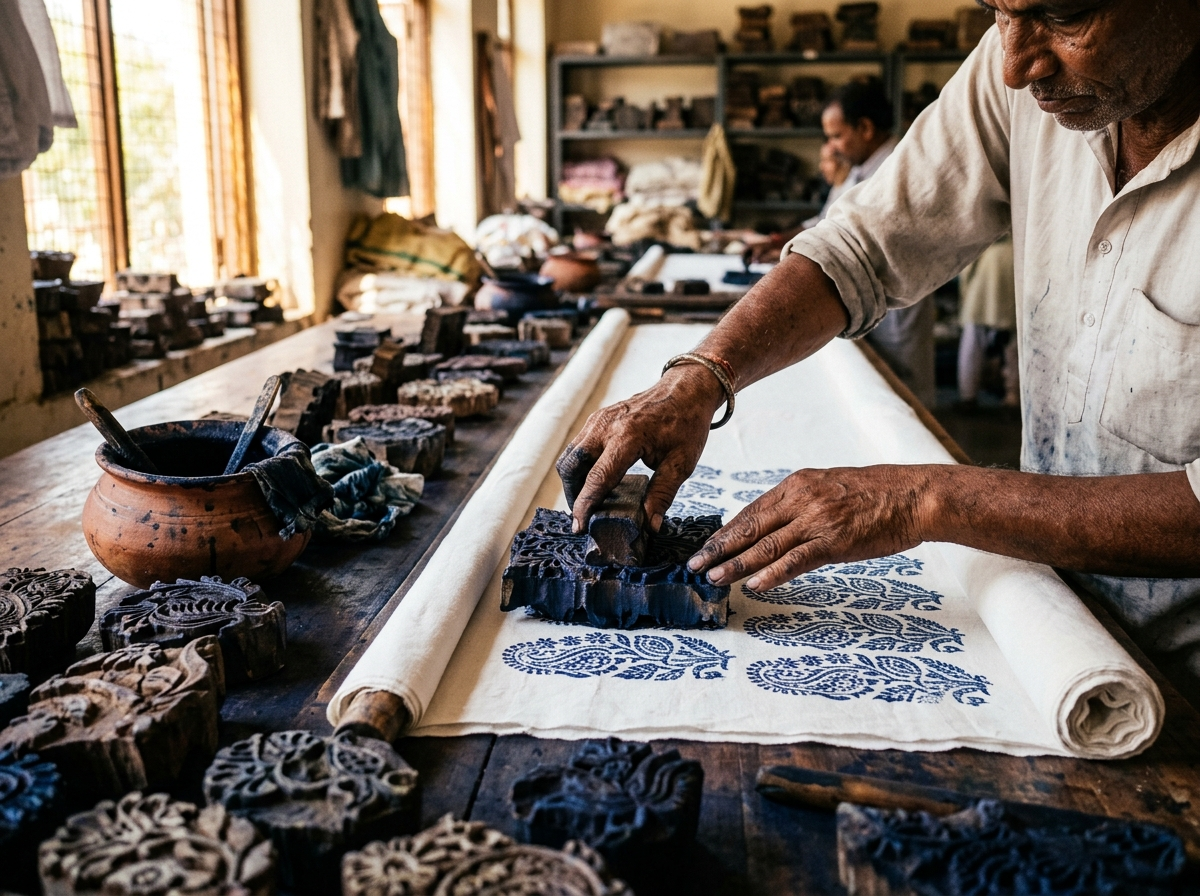
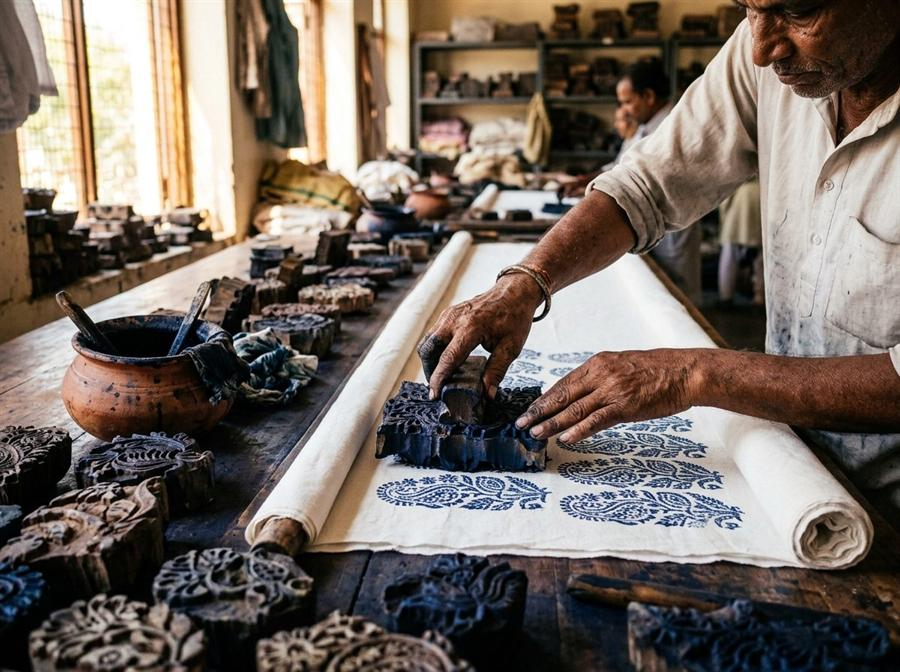
perf(speed): 81% image compression, lazy loading, clip scrolling, and bulletproof scrollToSection

Changed region(s): [[0.6533, 0.6875, 0.8089, 0.7812], [0.4356, 0.7188, 0.5911, 0.75]]

diff --git a/index.html b/index.html
@@ -1,5 +1,5 @@
 <!DOCTYPE html>
-<html lang="en" class="scroll-smooth overflow-x-hidden w-full max-w-full">
+<html lang="en" class="scroll-smooth w-full">
 <head>
   <meta charset="UTF-8" />
   <meta name="viewport" content="width=device-width, initial-scale=1.0, maximum-scale=1.0, user-scalable=no, viewport-fit=cover" />
@@ -15,16 +15,18 @@
   <meta property="og:description" content="Export quality Mul-cotton bedsheets, Dohars, 4x6 Carpets, and handcrafted home textiles from Jaipur. 7-Day Pan-India Delivery." />
   <meta property="og:image" content="assets/images/hero-jaipur.jpg" />
 
-  <!-- Google Fonts: Cinzel (Regal Serif) + Plus Jakarta Sans (Modern Body) -->
+  <!-- Preconnect & DNS-Prefetch for Speed -->
+  <link rel="dns-prefetch" href="https://fonts.googleapis.com" />
+  <link rel="dns-prefetch" href="https://fonts.gstatic.com" />
   <link rel="preconnect" href="https://fonts.googleapis.com" />
   <link rel="preconnect" href="https://fonts.gstatic.com" crossorigin />
-  <link href="https://fonts.googleapis.com/css2?family=Cinzel:wght@500;600;700;800&family=Plus+Jakarta+Sans:wght@300;400;500;600;700&family=Playfair+Display:ital,wght@0,600;1,400&display=swap" rel="stylesheet" />
+  <link href="https://fonts.googleapis.com/css2?family=Cinzel:wght@600;700;800&family=Plus+Jakarta+Sans:wght@400;500;600;700&family=Playfair+Display:ital,wght@0,600;1,400&display=swap" rel="stylesheet" />
 
   <!-- Tailwind CSS CDN -->
   <script src="https://cdn.tailwindcss.com"></script>
   
-  <!-- Lucide Icons CDN -->
-  <script src="https://unpkg.com/lucide@latest"></script>
+  <!-- Lucide Icons CDN (Direct Minified Bundle) -->
+  <script src="https://unpkg.com/lucide@0.344.0/dist/umd/lucide.min.js"></script>
 
   <script>
     tailwind.config = {
@@ -59,11 +61,17 @@
   </script>
 
   <style>
-    /* Strict Mobile Responsiveness & Overflow Prevention */
-    html, body {
+    /* Strict Mobile Responsiveness & Fluid Document Scrolling */
+    html {
+      width: 100%;
+      scroll-behavior: smooth;
+      -webkit-text-size-adjust: 100%;
+    }
+
+    body {
       width: 100%;
       max-width: 100%;
-      overflow-x: hidden !important;
+      overflow-x: clip; /* clip prevents horizontal overflow without breaking window.scrollTo or anchor hash navigation */
       position: relative;
       margin: 0;
       padding: 0;
@@ -71,10 +79,17 @@
       color: #1E1B18;
       font-family: 'Plus Jakarta Sans', sans-serif;
       -webkit-tap-highlight-color: transparent;
+      -webkit-font-smoothing: antialiased;
+      -moz-osx-font-smoothing: grayscale;
     }
     
     * {
       box-sizing: border-box;
+    }
+
+    /* Section scroll offset for sticky header */
+    #catalogue, #instagram-reels, #calculator, #gifting, #studio {
+      scroll-margin-top: 76px;
     }
 
     .font-cinzel { font-family: 'Cinzel', serif; }
@@ -201,7 +216,7 @@
     }
   </style>
 </head>
-<body class="antialiased selection:bg-amber-200 selection:text-amber-950 pb-20 md:pb-0 overflow-x-hidden">
+<body class="antialiased selection:bg-amber-200 selection:text-amber-950 pb-20 md:pb-0">
 
   <!-- Scroll Progress Indicator -->
   <div id="scrollProgressBar"></div>
@@ -258,13 +273,13 @@
             <i data-lucide="chevron-down" id="showcaseChevron" class="w-3.5 h-3.5 text-heritage-gold transition-transform duration-300"></i>
           </button>
           
-          <a href="#instagram-reels" class="hover:text-heritage-gold transition py-2 flex items-center gap-1.5 text-amber-900 font-bold">
+          <a href="#instagram-reels" onclick="return scrollToSection('instagram-reels', event)" class="hover:text-heritage-gold transition py-2 flex items-center gap-1.5 text-amber-900 font-bold">
             <span class="w-1.5 h-1.5 rounded-full bg-pink-500 animate-pulse"></span>
             <span>Live Reels</span>
           </a>
           
-          <a href="#calculator" class="hover:text-heritage-gold transition py-2">Room Sizer</a>
-          <a href="#studio" class="hover:text-heritage-gold transition py-2">Studio</a>
+          <a href="#calculator" onclick="return scrollToSection('calculator', event)" class="hover:text-heritage-gold transition py-2">Room Sizer</a>
+          <a href="#studio" onclick="return scrollToSection('studio', event)" class="hover:text-heritage-gold transition py-2">Studio</a>
         </div>
 
         <!-- Right Action: Mobile Showcase & Bag (Fitted & Fully Visible) -->
@@ -491,7 +506,7 @@
           <i data-lucide="chevron-down" class="w-4 h-4"></i>
         </button>
 
-        <a href="#catalogue" class="w-full sm:w-auto px-5 py-3 sm:px-7 sm:py-4 rounded-full luxury-glass text-white hover:text-amber-200 font-semibold text-xs sm:text-sm tracking-[0.08em] sm:tracking-[0.1em] uppercase transition flex items-center justify-center gap-2 border border-amber-400/35 shadow-xl hover:bg-white/10">
+        <a href="#catalogue" onclick="return scrollToSection('catalogue', event)" class="w-full sm:w-auto px-5 py-3.5 sm:px-7 sm:py-4 rounded-full luxury-glass text-white hover:text-amber-200 font-semibold text-xs sm:text-sm tracking-[0.08em] sm:tracking-[0.1em] uppercase transition flex items-center justify-center gap-2 border border-amber-400/35 shadow-xl hover:bg-white/10 active:scale-95 cursor-pointer">
           <span>Browse All Heirlooms</span>
           <i data-lucide="arrow-down" class="w-3.5 h-3.5 text-amber-300"></i>
         </a>
@@ -523,7 +538,7 @@
       </div>
 
       <!-- Delicate Floating Scroll Indicator -->
-      <div class="mt-6 sm:mt-10 flex flex-col items-center gap-1.5 text-amber-300/80 animate-bounce cursor-pointer group" onclick="document.getElementById('catalogue').scrollIntoView({behavior: 'smooth'})">
+      <div class="mt-6 sm:mt-10 flex flex-col items-center gap-1.5 text-amber-300/80 animate-bounce cursor-pointer group" onclick="return scrollToSection('catalogue', event)">
         <span class="text-[8px] sm:text-[10px] uppercase tracking-[0.25em] font-medium group-hover:text-amber-200 transition">Scroll to Discover The Crafts</span>
         <i data-lucide="chevron-down" class="w-3.5 h-3.5 text-heritage-gold"></i>
       </div>
@@ -600,7 +615,7 @@
       <!-- Reel 1: 4x6 Carpet Video -->
       <div onclick="openReelModal(0)" class="cursor-pointer bg-white rounded-2xl overflow-hidden shadow-sm hover:shadow-xl transition-all duration-300 border border-heritage-border group flex flex-col justify-between card-3d">
         <div class="relative aspect-[9/14] bg-heritage-obsidian overflow-hidden">
-          <img src="assets/images/carpet-indigo-4x6.jpg" alt="Indigo Carpet Reel" class="w-full h-full object-cover animate-reel-zoom group-hover:brightness-95 transition" />
+          <img src="assets/images/carpet-indigo-4x6.jpg" alt="Indigo Carpet Reel" loading="lazy" decoding="async" class="w-full h-full object-cover animate-reel-zoom group-hover:brightness-95 transition" />
           <div class="absolute inset-0 bg-gradient-to-t from-black/85 via-black/25 to-transparent"></div>
           
           <!-- Top Reel Header -->
@@ -648,7 +663,7 @@
       <!-- Reel 2: Mulmul Dohar Video -->
       <div onclick="openReelModal(1)" class="cursor-pointer bg-white rounded-2xl overflow-hidden shadow-sm hover:shadow-xl transition-all duration-300 border border-heritage-border group flex flex-col justify-between card-3d">
         <div class="relative aspect-[9/14] bg-heritage-obsidian overflow-hidden">
-          <img src="assets/images/mulmul-dohar-bedsheet.jpg" alt="Mulmul Dohar Reel" class="w-full h-full object-cover animate-reel-zoom group-hover:brightness-95 transition" />
+          <img src="assets/images/mulmul-dohar-bedsheet.jpg" alt="Mulmul Dohar Reel" loading="lazy" decoding="async" class="w-full h-full object-cover animate-reel-zoom group-hover:brightness-95 transition" />
           <div class="absolute inset-0 bg-gradient-to-t from-black/85 via-black/25 to-transparent"></div>
           
           <div class="absolute top-3 left-3 right-3 flex items-center justify-between text-white text-[11px] font-bold">
@@ -693,7 +708,7 @@
       <!-- Reel 3: Tufted Cushion Video -->
       <div onclick="openReelModal(2)" class="cursor-pointer bg-white rounded-2xl overflow-hidden shadow-sm hover:shadow-xl transition-all duration-300 border border-heritage-border group flex flex-col justify-between card-3d">
         <div class="relative aspect-[9/14] bg-heritage-obsidian overflow-hidden">
-          <img src="assets/images/cushion-tufted-embroidery.jpg" alt="Cushions Reel" class="w-full h-full object-cover animate-reel-zoom group-hover:brightness-95 transition" />
+          <img src="assets/images/cushion-tufted-embroidery.jpg" alt="Cushions Reel" loading="lazy" decoding="async" class="w-full h-full object-cover animate-reel-zoom group-hover:brightness-95 transition" />
           <div class="absolute inset-0 bg-gradient-to-t from-black/85 via-black/25 to-transparent"></div>
           
           <div class="absolute top-3 left-3 right-3 flex items-center justify-between text-white text-[11px] font-bold">
@@ -738,7 +753,7 @@
       <!-- Reel 4: Wedding Gifting Box Video -->
       <div onclick="openReelModal(3)" class="cursor-pointer bg-white rounded-2xl overflow-hidden shadow-sm hover:shadow-xl transition-all duration-300 border border-heritage-border group flex flex-col justify-between card-3d">
         <div class="relative aspect-[9/14] bg-heritage-obsidian overflow-hidden">
-          <img src="assets/images/luxury-gifting-box.jpg" alt="Wedding Hamper Reel" class="w-full h-full object-cover animate-reel-zoom group-hover:brightness-95 transition" />
+          <img src="assets/images/luxury-gifting-box.jpg" alt="Wedding Hamper Reel" loading="lazy" decoding="async" class="w-full h-full object-cover animate-reel-zoom group-hover:brightness-95 transition" />
           <div class="absolute inset-0 bg-gradient-to-t from-black/85 via-black/25 to-transparent"></div>
           
           <div class="absolute top-3 left-3 right-3 flex items-center justify-between text-white text-[11px] font-bold">
@@ -987,7 +1002,7 @@
         <!-- Right: Hamper Image -->
         <div class="lg:col-span-6 relative">
           <div class="relative rounded-2xl overflow-hidden shadow-2xl border border-amber-500/30">
-            <img src="assets/images/luxury-gifting-box.jpg" alt="Heritage Handicrafts Bespoke Gifting Box" class="w-full h-full object-cover" />
+            <img src="assets/images/luxury-gifting-box.jpg" alt="Heritage Handicrafts Bespoke Gifting Box" loading="lazy" decoding="async" class="w-full h-full object-cover" />
             <div class="absolute bottom-3 left-3 right-3 bg-heritage-obsidian/90 backdrop-blur-md p-3.5 rounded-xl border border-amber-400/20 text-xs">
               <p class="font-cinzel text-amber-300 font-bold text-sm">Heritage Royal Hamper (Signature Edition)</p>
               <p class="text-gray-300 text-[11px] mt-0.5">Includes 1x Reversible Mulmul Dohar + 1x Hand-Hammered Brass Candle + Custom Ribbon Tag.</p>
@@ -1940,7 +1955,7 @@
           <div>
             <!-- Clickable Product Image triggers Multi-Photo Modal -->
             <div class="relative overflow-hidden aspect-[4/3] bg-heritage-sand cursor-pointer" onclick="openProductModal('${product.id}')">
-              <img src="${product.image}" alt="${product.name}" class="w-full h-full object-cover group-hover:scale-105 transition-transform duration-500" />
+              <img src="${product.image}" alt="${product.name}" loading="lazy" decoding="async" class="w-full h-full object-cover group-hover:scale-105 transition-transform duration-500" />
               
               <span class="absolute top-2.5 left-2.5 bg-heritage-obsidian/90 text-amber-300 text-[10px] font-bold uppercase tracking-wider px-2.5 py-1 rounded-full backdrop-blur-sm border border-amber-400/20 shadow">
                 ${product.badge}
@@ -2457,6 +2472,34 @@
     });
 
     // -------------------------------------------------------------
+    // ROBUST SMOOTH SCROLLING CONTROLLER (MOBILE & DESKTOP)
+    // -------------------------------------------------------------
+    function scrollToSection(targetId, e) {
+      if (e && e.preventDefault) {
+        e.preventDefault();
+      }
+      const el = document.getElementById(targetId);
+      if (!el) return false;
+
+      const nav = document.querySelector('nav');
+      const navHeight = nav ? nav.offsetHeight : 64;
+      const targetY = Math.max(0, el.getBoundingClientRect().top + window.pageYOffset - navHeight);
+
+      window.scrollTo({
+        top: targetY,
+        behavior: 'smooth'
+      });
+
+      try {
+        if (window.history && window.history.pushState) {
+          window.history.pushState(null, null, '#' + targetId);
+        }
+      } catch (err) {}
+
+      return false;
+    }
+
+    // -------------------------------------------------------------
     // EXPANDABLE SHOWCASE PANEL CONTROLS
     // -------------------------------------------------------------
     let isShowcaseOpen = false;
@@ -2501,19 +2544,13 @@
       toggleHeaderShowcase(false);
       
       if (category === 'gifting') {
-        const giftSection = document.getElementById('gifting');
-        if (giftSection) {
-          giftSection.scrollIntoView({ behavior: 'smooth' });
-        }
+        scrollToSection('gifting');
         return;
       }
 
       // Filter and scroll to catalogue
       filterCategory(category);
-      const catSection = document.getElementById('catalogue');
-      if (catSection) {
-        catSection.scrollIntoView({ behavior: 'smooth' });
-      }
+      scrollToSection('catalogue');
     }
 
     // -------------------------------------------------------------
@@ -2554,7 +2591,7 @@
     }
 
     // -------------------------------------------------------------
-    // ROYAL HANDICRAFT GOLDEN SILK & STARDUST CANVAS
+    // ROYAL HANDICRAFT GOLDEN SILK & STARDUST CANVAS (60FPS OPTIMIZED)
     // -------------------------------------------------------------
     function initHeroLoomCanvas() {
       const canvas = document.getElementById('heroLoomCanvas');
@@ -2583,20 +2620,21 @@
         if (!canvas.parentElement) return;
         width = canvas.width = canvas.parentElement.offsetWidth || window.innerWidth;
         height = canvas.height = canvas.parentElement.offsetHeight || window.innerHeight;
-      });
+      }, { passive: true });
 
-      // Craft particles representing golden zari threads & stardust
-      const particleCount = 38;
+      // Mobile throttle: reduce particles on phones for max battery & zero scroll jank
+      const isMobile = window.innerWidth < 768;
+      const particleCount = isMobile ? 16 : 32;
       const particles = [];
 
       for (let i = 0; i < particleCount; i++) {
         particles.push({
           x: Math.random() * width,
           y: Math.random() * height,
-          radius: Math.random() * 1.8 + 0.6,
-          speedY: -(Math.random() * 0.45 + 0.15),
-          speedX: (Math.random() - 0.5) * 0.3,
-          alpha: Math.random() * 0.6 + 0.2,
+          radius: Math.random() * 1.6 + 0.6,
+          speedY: -(Math.random() * 0.4 + 0.15),
+          speedX: (Math.random() - 0.5) * 0.25,
+          alpha: Math.random() * 0.5 + 0.25,
           pulseSpeed: Math.random() * 0.02 + 0.01,
           angle: Math.random() * Math.PI * 2
         });
@@ -2626,12 +2664,15 @@
           if (p.x < -10) p.x = width + 10;
           if (p.x > width + 10) p.x = -10;
 
-          // Golden glow circle
+          // Lightweight concentric soft glow without expensive GPU shadowBlur
+          ctx.beginPath();
+          ctx.arc(p.x, p.y, p.radius * 2, 0, Math.PI * 2);
+          ctx.fillStyle = `rgba(197, 155, 39, ${Math.max(0.04, currentAlpha * 0.2)})`;
+          ctx.fill();
+
           ctx.beginPath();
           ctx.arc(p.x, p.y, p.radius, 0, Math.PI * 2);
-          ctx.fillStyle = `rgba(232, 202, 101, ${Math.max(0.1, currentAlpha)})`;
-          ctx.shadowBlur = 8;
-          ctx.shadowColor = 'rgba(197, 155, 39, 0.7)';
+          ctx.fillStyle = `rgba(246, 232, 185, ${Math.max(0.12, currentAlpha)})`;
           ctx.fill();
         }
 
@@ -2678,9 +2719,19 @@
     // INITIALIZATION
     document.addEventListener('DOMContentLoaded', () => {
       renderProducts(productsData);
-      lucide.createIcons();
+      if (window.lucide) {
+        lucide.createIcons();
+      }
       setupScrollObserver();
       initHeroLoomCanvas();
+
+      // If page was loaded with a section hash, scroll to it smoothly
+      if (window.location.hash) {
+        const targetId = window.location.hash.substring(1);
+        setTimeout(() => {
+          scrollToSection(targetId);
+        }, 100);
+      }
     });
   </script>
 </body>
